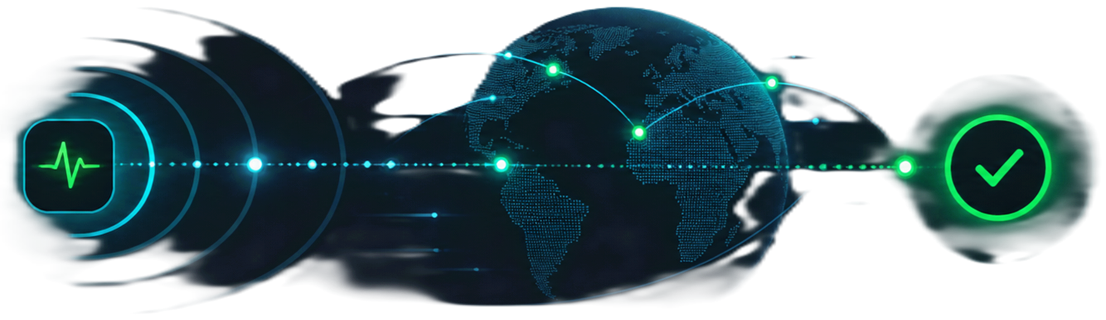
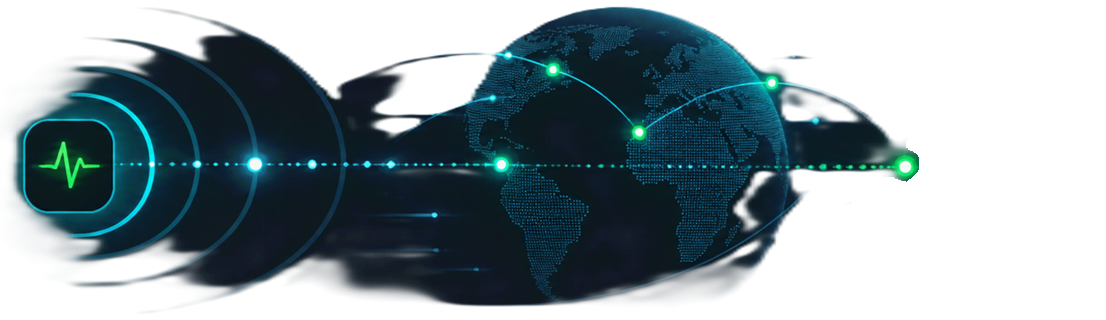
style: adjust ping illustration size/position on Global Ping Health

Changed region(s): [[0.7993, 0.25, 1.0, 0.8438]]

diff --git a/adminconsole-web/src/components/ping/GlobalPingHealth/GlobalPingHealth.module.scss b/adminconsole-web/src/components/ping/GlobalPingHealth/GlobalPingHealth.module.scss
@@ -14,8 +14,8 @@
   position: absolute;
   top: 50%;
   right: 0;
-  transform: translateY(-50%);
-  height: 112px;
+  transform: translateY(-60%);
+  height: 152px;
   width: auto;
   pointer-events: none;
   user-select: none;
